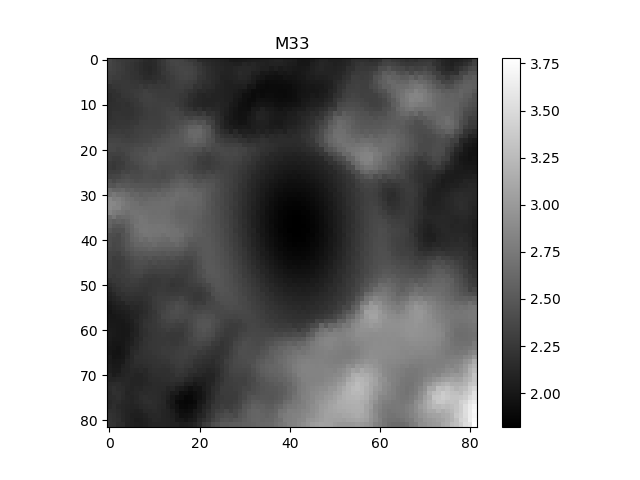
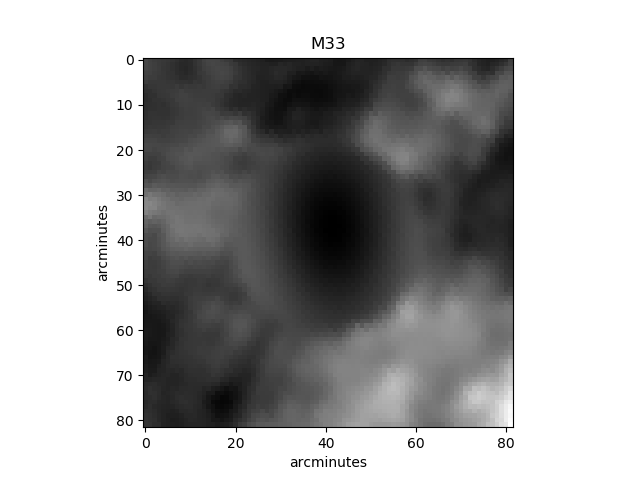
modifications made for paper

Changed region(s): [[0.125, 0.0938, 0.875, 0.9688], [0.3125, 0.3125, 0.4688, 0.6562], [0.4375, 0.0625, 0.5312, 0.125]]

diff --git a/Program/utilities.py b/Program/utilities.py
@@ -346,7 +346,33 @@ def picSaver(directory, ra, dec, galaxy_name):
     plt.figure(1)
     plt.title(str(galaxy_name))
     plt.imshow(image_data,cmap='gray')
+    #plt.colorbar()
+    plt.xlabel("arcminutes")
+    plt.ylabel("arcminutes")
+    plt.savefig(os.path.join(directory,'Pictures',(str(galaxy_name)+".png")))
+    plt.clf()
+
+def ebvpicSaver(directory, ra, dec, galaxy_name):
+    """
+        Gets image from IRSA for a given coordinate and saves to chosen directory
+        Inputs:
+            directory: directory to save files in
+            ra: radial component of center coordinate
+            dec: declination component of center coordinate
+            galaxy_name: name of current galaxy
+        Outputs:
+            None
+    """
+    imagelist = IrsaDust.get_image_list(SkyCoord(ra,dec).icrs, image_type="extinction", radius=2*u.degree)
+    image_file = download_file(imagelist[0],cache=True)
+    image_data = fits.getdata(image_file, ext=0) #gets image from IRSA database
+    plt.clf()
+    plt.figure(1)
+    plt.title(str(galaxy_name))
+    plt.imshow(image_data,cmap='gray')
     plt.colorbar()
+    plt.xlabel("arcminutes")
+    plt.ylabel("arcminutes")
     plt.savefig(os.path.join(directory,'Pictures',(str(galaxy_name)+".png")))
     plt.clf()
 

diff --git a/Program/runsinglegalaxybyname.py b/Program/runsinglegalaxybyname.py
@@ -234,5 +234,11 @@ picSaver('..', '12h45m08.591s', '-00d27m42.79s', galaxy_name)
 a_v=tableFill(40, '12h45m08.591s', '-00d27m42.79s', galaxy_name,'ngc4666')
 graphMaker('..', a_v, galaxy_name)
 
+galaxy_name='NGC300'
+picSaver('..', '00h54m53.48s', '-37d41m03.8s', galaxy_name)
+a_v=tableFill(40, '00h54m53.48s', '-37d41m03.8s', galaxy_name,'ngc300')
+graphMaker('..', a_v, galaxy_name)
+
+ebvpicSaver('..', '00h54m53.48s', '-37d41m03.8s', 'NGC300_ebv')
 
 
